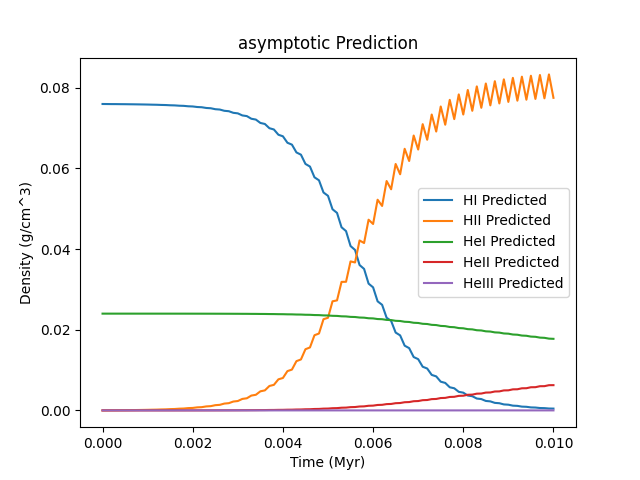
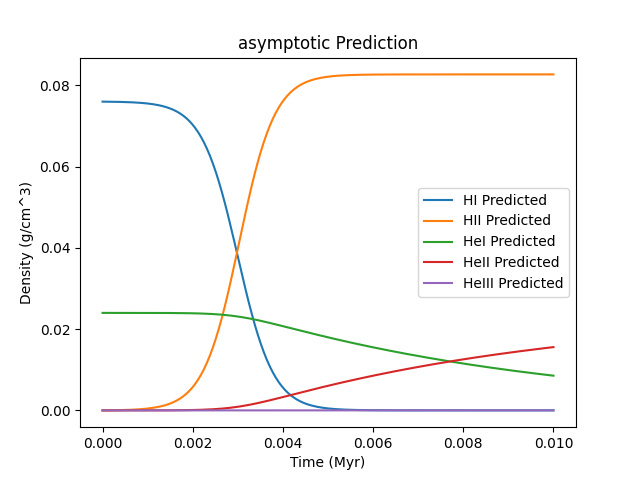
refactor asym to use odes file

diff --git a/project/networks/six_species/asymptotic.py b/project/networks/six_species/asymptotic.py
@@ -1,5 +1,6 @@
 import numpy as np
-import math
+from .odes import HI, HII, HeI, HeII, HeIII, e
+
 
 USE_FLFD = False
 
@@ -33,282 +34,21 @@ def prediction_2(F_p, k_n, dt, y_prev):
     return yn
 
 
-class HI:
-    F_p = []
-    k_n = []
-    y_n = []
-    rates = None
-
-    def next(self, HI, HII, HeI, HeII, HeIII, e, T, dt, save_results=True):
-        positive_fluxes = [self.rates.k2(T) * HII * e]
-        destruction_rates = [
-            self.rates.k1(T) * e,
-            self.rates.k57(T) * HI,
-            self.rates.k58(T) * HeI / 4,
-        ]
-
-        # print("tm1", destruction_rates, sum(destruction_rates))
-
-        destruction = sum(list(map(lambda x: nn(x * HI), destruction_rates)))
-        creation = sum(list(map(lambda x: nn(x), positive_fluxes)))
-
-        F_p = sum(positive_fluxes)
-        k_n = sum(destruction_rates)
-
-        if len(self.F_p) <= 1 or abs(k_n * dt) >= 1:
-            diff = HI + (creation - destruction) * dt
-        else:
-            k_n_prev = self.k_n[len(self.k_n) - 2]
-            F_p_prev = self.F_p[len(self.F_p) - 2]
-            y_prev = self.y_n[len(self.y_n) - 2]
-            # diff = prediction_1(
-            #     F_p,
-            #     k_n,
-            #     k_n_prev,
-            #     F_p_prev,
-            #     y_prev,
-            #     dt,
-            # )
-
-            diff = prediction_2(F_p, k_n, dt, y_prev)
-
-        if save_results:
-            self.F_p.append(F_p)
-            self.k_n.append(k_n)
-            self.y_n.append(diff)
-        return diff
-
-
-class HII:
-    F_p = []
-    k_n = []
-    y_n = []
-    rates = None
-
-    def next(self, HI, HII, HeI, HeII, HeIII, e, T, dt, save_results=True):
-        positive_fluxes = [
-            self.rates.k1(T) * HI * e,
-            self.rates.k57(T) * HI * HI,
-            self.rates.k58(T) * HI * HeI / 4,
-        ]
-        destruction_rates = [self.rates.k2(T) * e]
-        destruction = sum(list(map(lambda x: nn(x * HII), destruction_rates)))
-        creation = sum(list(map(lambda x: nn(x), positive_fluxes)))
-
-        F_p = sum(positive_fluxes)
-        k_n = sum(destruction_rates)
-
-        if len(self.F_p) <= 1 or abs(k_n * dt) >= 1:
-            diff = HII + (creation - destruction) * dt
-        else:
-            k_n_prev = self.k_n[len(self.k_n) - 2]
-            F_p_prev = self.F_p[len(self.F_p) - 2]
-            y_prev = self.y_n[len(self.y_n) - 2]
-            # diff = prediction_1(
-            #     F_p,
-            #     k_n,
-            #     k_n_prev,
-            #     F_p_prev,
-            #     y_prev,
-            #     dt,
-            # )
-
-            diff = prediction_2(F_p, k_n, dt, y_prev)
-
-        if save_results:
-            self.F_p.append(F_p)
-            self.k_n.append(k_n)
-            self.y_n.append(diff)
-
-        return diff
-
-
-class e:
-    F_p = []
-    k_n = []
-    y_n = []
-    rates = None
-
-    def next(self, HI, HII, HeI, HeII, HeIII, e, T, dt, save_results=True):
-
-        creation = nn(self.rates.k57(T) * HI * HI) + nn(
-            self.rates.k58(T) * HI * HeI / 4
-        )
-
-        destruction = -(
-            nn(self.rates.k1(T) * HI * e)
-            - nn(self.rates.k2(T) * HII * e)
-            + nn((self.rates.k3(T) * HeI / 4) * e)
-            - nn((self.rates.k6(T) * HeIII / 4) * e)
-            + nn((self.rates.k5(T) * HeII / 4) * e)
-            - nn((self.rates.k4(T) * HeII / 4) * e)
-        )
-
-        F_p = self.rates.k57(T) * HI * HI + self.rates.k58(T) * HI * HeI / 4
-        k_n = -(
-            self.rates.k1(T) * HI
-            - self.rates.k2(T) * HII
-            + self.rates.k3(T) * HeI / 4
-            - self.rates.k6(T) * HeIII / 4
-            + self.rates.k5(T) * HeII / 4
-            - self.rates.k4(T) * HeII / 4
-        )
-
-        if len(self.F_p) <= 1 or abs(k_n * dt) >= 1:
-            diff = e + (creation - destruction) * dt
-        else:
-            k_n_prev = self.k_n[len(self.k_n) - 2]
-            F_p_prev = self.F_p[len(self.F_p) - 2]
-            y_prev = self.y_n[len(self.y_n) - 2]
-            # diff = prediction_1(
-            #     F_p,
-            #     k_n,
-            #     k_n_prev,
-            #     F_p_prev,
-            #     y_prev,
-            #     dt,
-            # )
-
-            diff = prediction_2(F_p, k_n, dt, y_prev)
-
-        if save_results:
-            self.F_p.append(F_p)
-            self.k_n.append(k_n)
-            self.y_n.append(diff)
-        return diff
-
-
-class HeI:
-    F_p = []
-    k_n = []
-    y_n = []
-    rates = None
-
-    def next(self, HI, HII, HeI, HeII, HeIII, e, T, dt, save_results=True):
-        creation = nn(self.rates.k4(T) * HeII * e)
-        destruction = nn(self.rates.k3(T) * e * HeI)
-
-        F_p = self.rates.k4(T) * HeII * e
-        k_n = self.rates.k3(T) * e
-
-        if len(self.F_p) <= 1 or abs(k_n * dt) >= 1:
-            diff = HeI + (creation - destruction) * dt
-        else:
-            k_n_prev = self.k_n[len(self.k_n) - 2]
-            F_p_prev = self.F_p[len(self.F_p) - 2]
-            y_prev = self.y_n[len(self.y_n) - 2]
-            # diff = prediction_1(
-            #     F_p,
-            #     k_n,
-            #     k_n_prev,
-            #     F_p_prev,
-            #     y_prev,
-            #     dt,
-            # )
-
-            diff = prediction_2(F_p, k_n, dt, y_prev)
-
-        if save_results:
-            self.F_p.append(F_p)
-            self.k_n.append(k_n)
-            self.y_n.append(diff)
-
-        return diff
-
-
-class HeII:
-    F_p = []
-    k_n = []
-    y_n = []
-    rates = None
-
-    def next(self, HI, HII, HeI, HeII, HeIII, e, T, dt, save_results=True):
-
-        positive_fluxes = [self.rates.k3(T) * HeI * e, self.rates.k6(T) * HeIII * e]
-        destruction_rates = [self.rates.k4(T) * e, self.rates.k5(T) * e]
-
-        destruction = sum(list(map(lambda x: nn(x * HeII), destruction_rates)))
-        creation = sum(list(map(lambda x: nn(x), positive_fluxes)))
-
-        F_p = sum(positive_fluxes)
-        k_n = sum(destruction_rates)
-
-        if len(self.F_p) <= 1 or abs(k_n * dt) >= 1:
-            diff = HeII + (creation - destruction) * dt
-        else:
-            k_n_prev = self.k_n[len(self.k_n) - 2]
-            F_p_prev = self.F_p[len(self.F_p) - 2]
-            y_prev = self.y_n[len(self.y_n) - 2]
-            # diff = prediction_1(
-            #     F_p,
-            #     k_n,
-            #     k_n_prev,
-            #     F_p_prev,
-            #     y_prev,
-            #     dt,
-            # )
-
-            diff = prediction_2(F_p, k_n, dt, y_prev)
-
-        if save_results:
-            self.F_p.append(F_p)
-            self.k_n.append(k_n)
-            self.y_n.append(diff)
-
-        return diff
-
-
-class HeIII:
-    F_p = []
-    k_n = []
-    y_n = []
-    rates = None
-
-    def next(self, HI, HII, HeI, HeII, HeIII, e, T, dt, save_results=True):
-
-        positive_fluxes = [self.rates.k5(T) * HeII * e]
-        destruction_rates = [self.rates.k6(T) * e]
-
-        destruction = sum(list(map(lambda x: nn(x * HeIII), destruction_rates)))
-        creation = sum(list(map(lambda x: nn(x), positive_fluxes)))
-
-        F_p = sum(positive_fluxes)
-        k_n = sum(destruction_rates)
-
-        if len(self.F_p) <= 1 or abs(k_n * dt) >= 1:
-            diff = HeIII + (creation - destruction) * dt
-        else:
-            k_n_prev = self.k_n[len(self.k_n) - 2]
-            F_p_prev = self.F_p[len(self.F_p) - 2]
-            y_prev = self.y_n[len(self.y_n) - 2]
-            # diff = prediction_1(
-            #     F_p,
-            #     k_n,
-            #     k_n_prev,
-            #     F_p_prev,
-            #     y_prev,
-            #     dt,
-            # )
-
-            diff = prediction_2(F_p, k_n, dt, y_prev)
-
-        if save_results:
-            self.F_p.append(F_p)
-            self.k_n.append(k_n)
-            self.y_n.append(diff)
-
-        return diff
-
-
-odes = [HI(), HII(), HeI(), HeII(), HeIII(), e()]
+odes = [HI(None), HII(None), HeI(None), HeII(None), HeIII(None), e(None)]
 species_names = ["HI", "HII", "HeI", "HeII", "HeIII"]
 
 
 def asymptotic_methods_solver(equations, initial_conditions, t_span, T, rates):
     for eq in equations:
         eq.rates = rates
-    dt = (
-        abs(initial_conditions[0] / odes[0].next(*initial_conditions, T, 0, False))
+
+    HI_rate = odes[0].get_rates(*initial_conditions, T)
+    dt = abs(
+        initial_conditions[0]
+        / (
+            sum(HI_rate.positive_fluxes)
+            - sum(HI_rate.destruction_rates) * initial_conditions[0]
+        )
         * 0.0001
     )
 
@@ -325,16 +65,39 @@ def asymptotic_methods_solver(equations, initial_conditions, t_span, T, rates):
 
     rate_values = np.zeros((num_eqns, n + 1))
 
+    # these are arrays which store the value of their calculation from the previous timestep.
+    # initial value is infinity so incorrect use of the array will hopefully be obvious in results
+    k_ns = [float("inf") for _ in range(len(equations))]
+    F_ps = [float("inf") for _ in range(len(equations))]
+
+    using = 0
     for i in range(n):
         for j, eq in enumerate(equations):
-            rate = eq.next(
+            er = eq.get_rates(
                 *y_values[:, i],
                 T,
-                dt,
             )
-            # y_values[j, i + 1] = y_values[j, i] + dt * rate
-            y_values[j, i + 1] = rate
-            rate_values[j, i + 1] = rate
-    print("solver final state: ", y_values[:, n - 1])
-    print(y_values)
+            y_prev = y_values[j, i]
+            k_n = sum(er.destruction_rates) * er.destruction_sign
+            creation = sum(er.positive_fluxes)
+            destruction = k_n * y_values[j, i]
+
+            if i == 0 or abs(k_n * dt) >= 1:
+                y_values[j, i + 1] = y_values[j, i] + dt * (creation - destruction)
+            else:
+                using += 1
+                k_n_prev = k_ns[j]
+                F_p_prev = F_ps[j]
+
+                # y_values[j, i + 1] = prediction_1(
+                #     creation, k_n, k_n_prev, F_p_prev, y_prev, dt
+                # )
+                y_values[j, i + 1] = prediction_2(creation, k_n, dt, y_prev)
+
+            k_ns[j] = k_n
+            F_ps[j] = creation
+
+    print(f"used {using} / {n * len(equations)}")
+    # print("solver final state: ", y_values[:, n - 1])
+    # print(y_values)
     return t, y_values, rate_values
